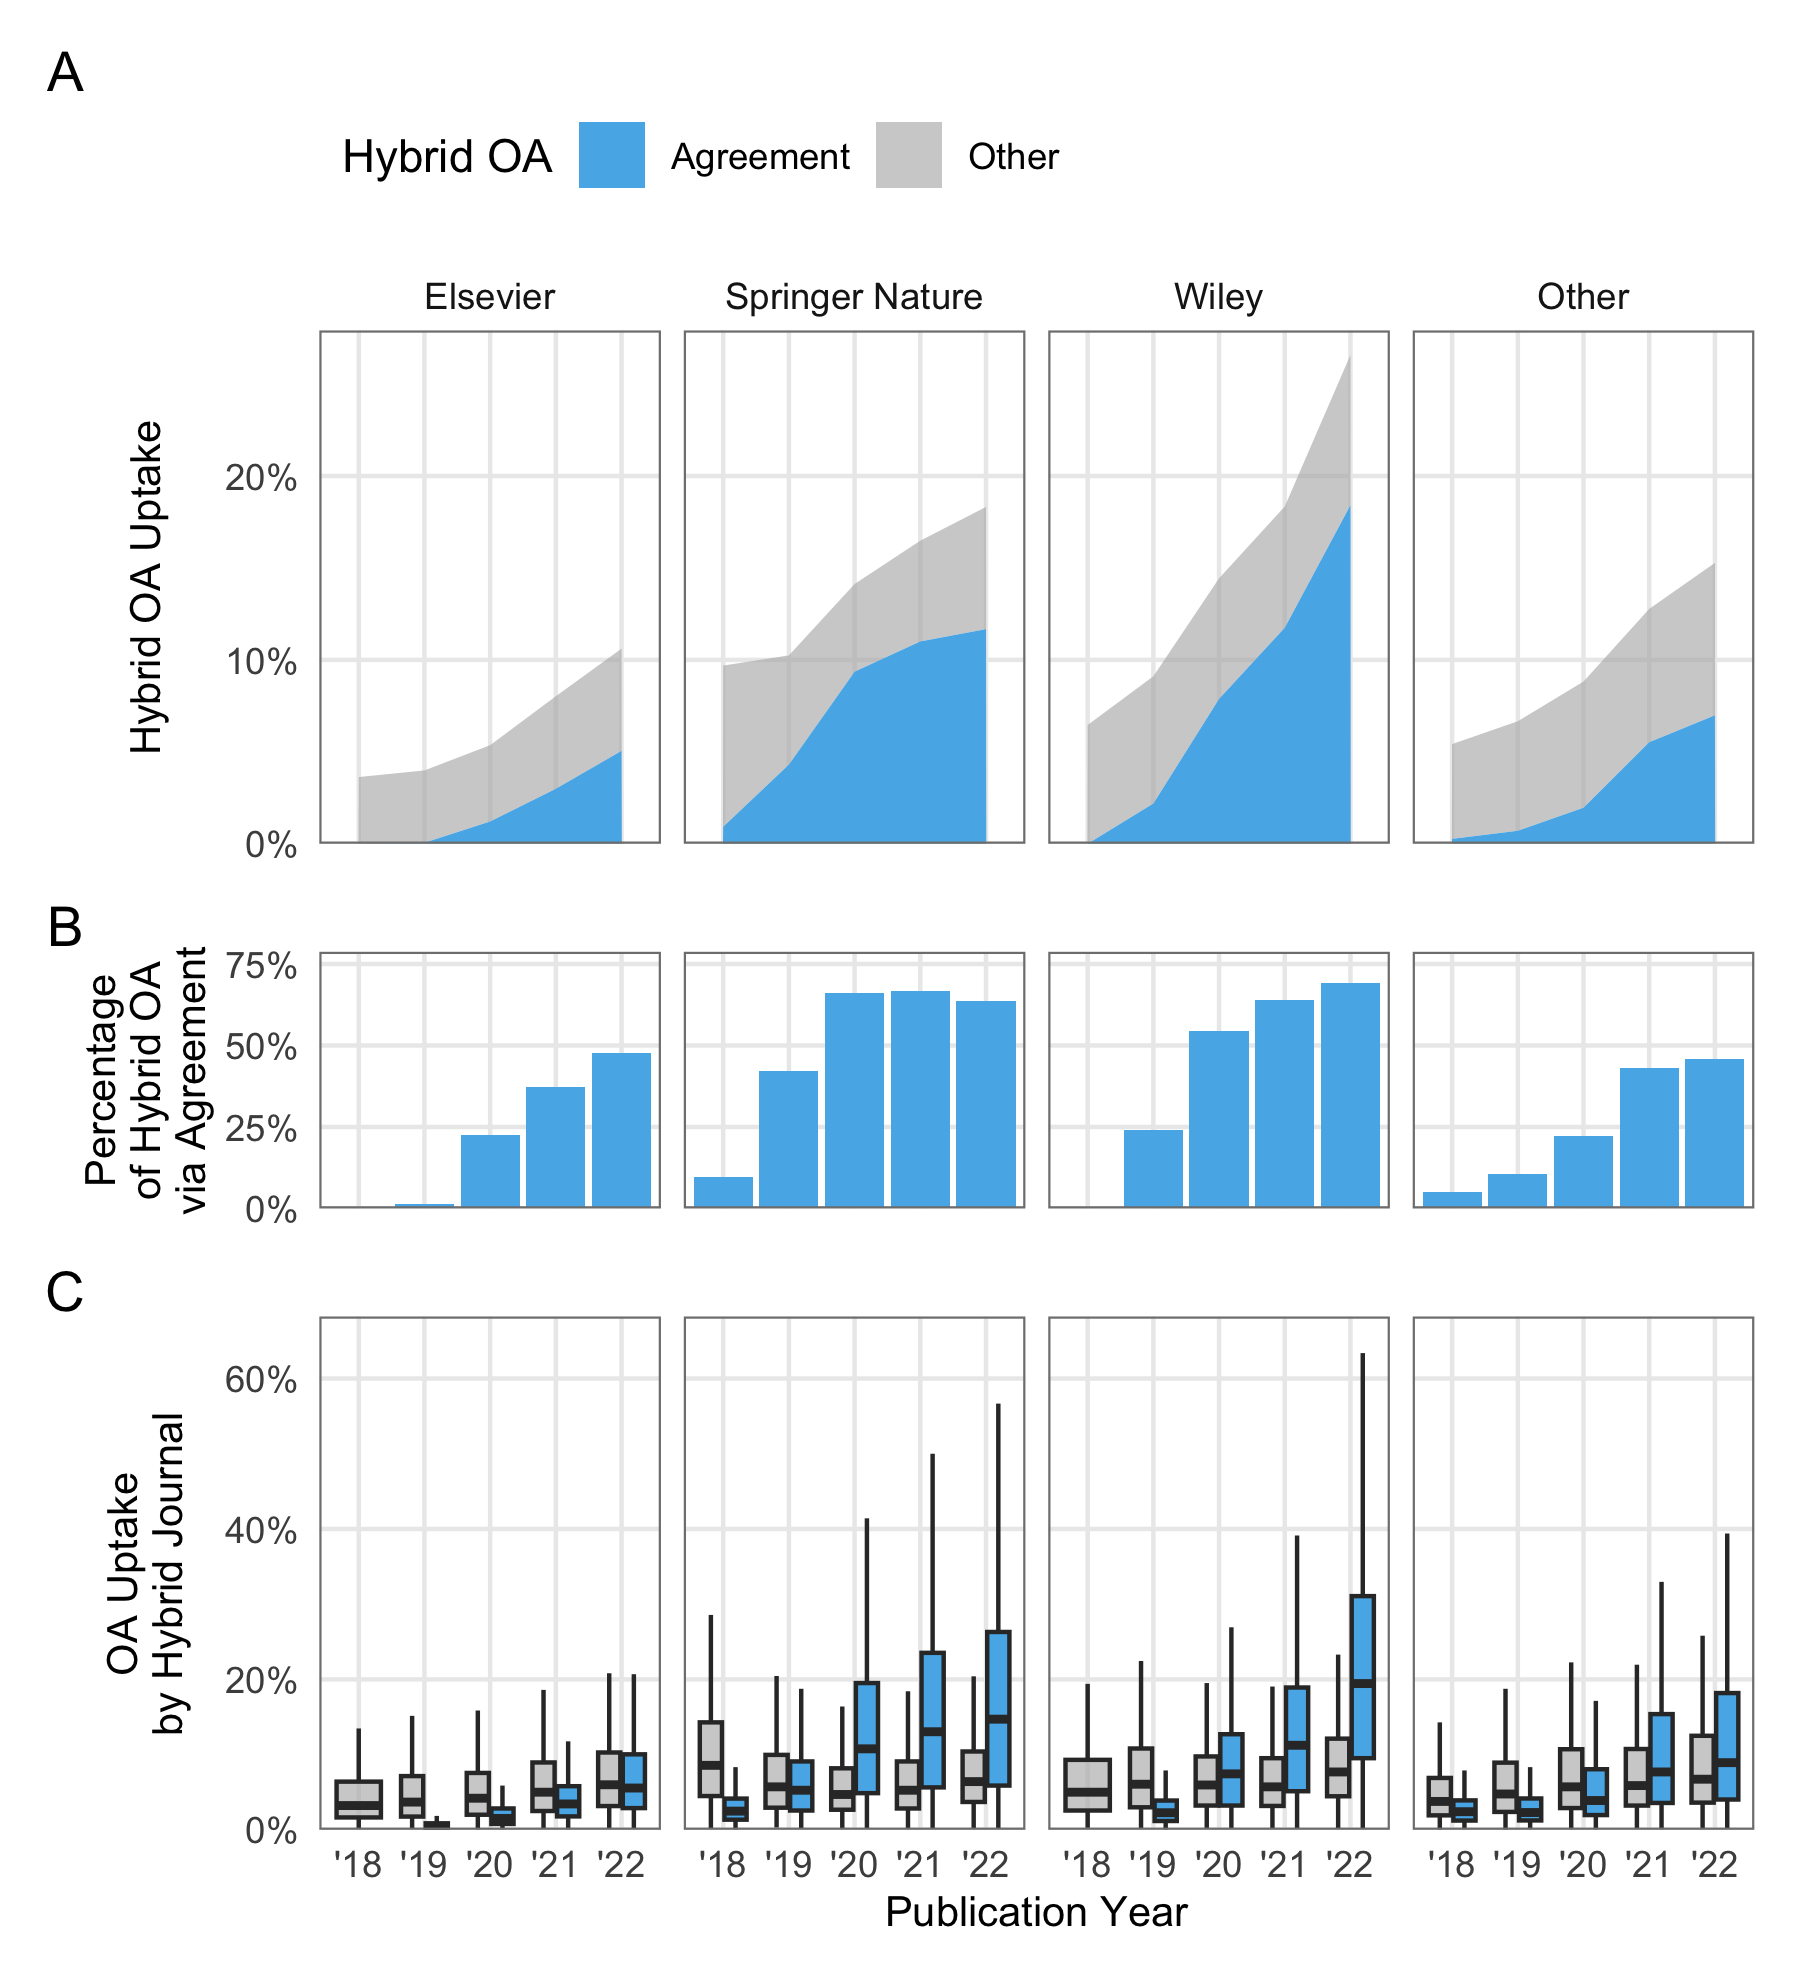
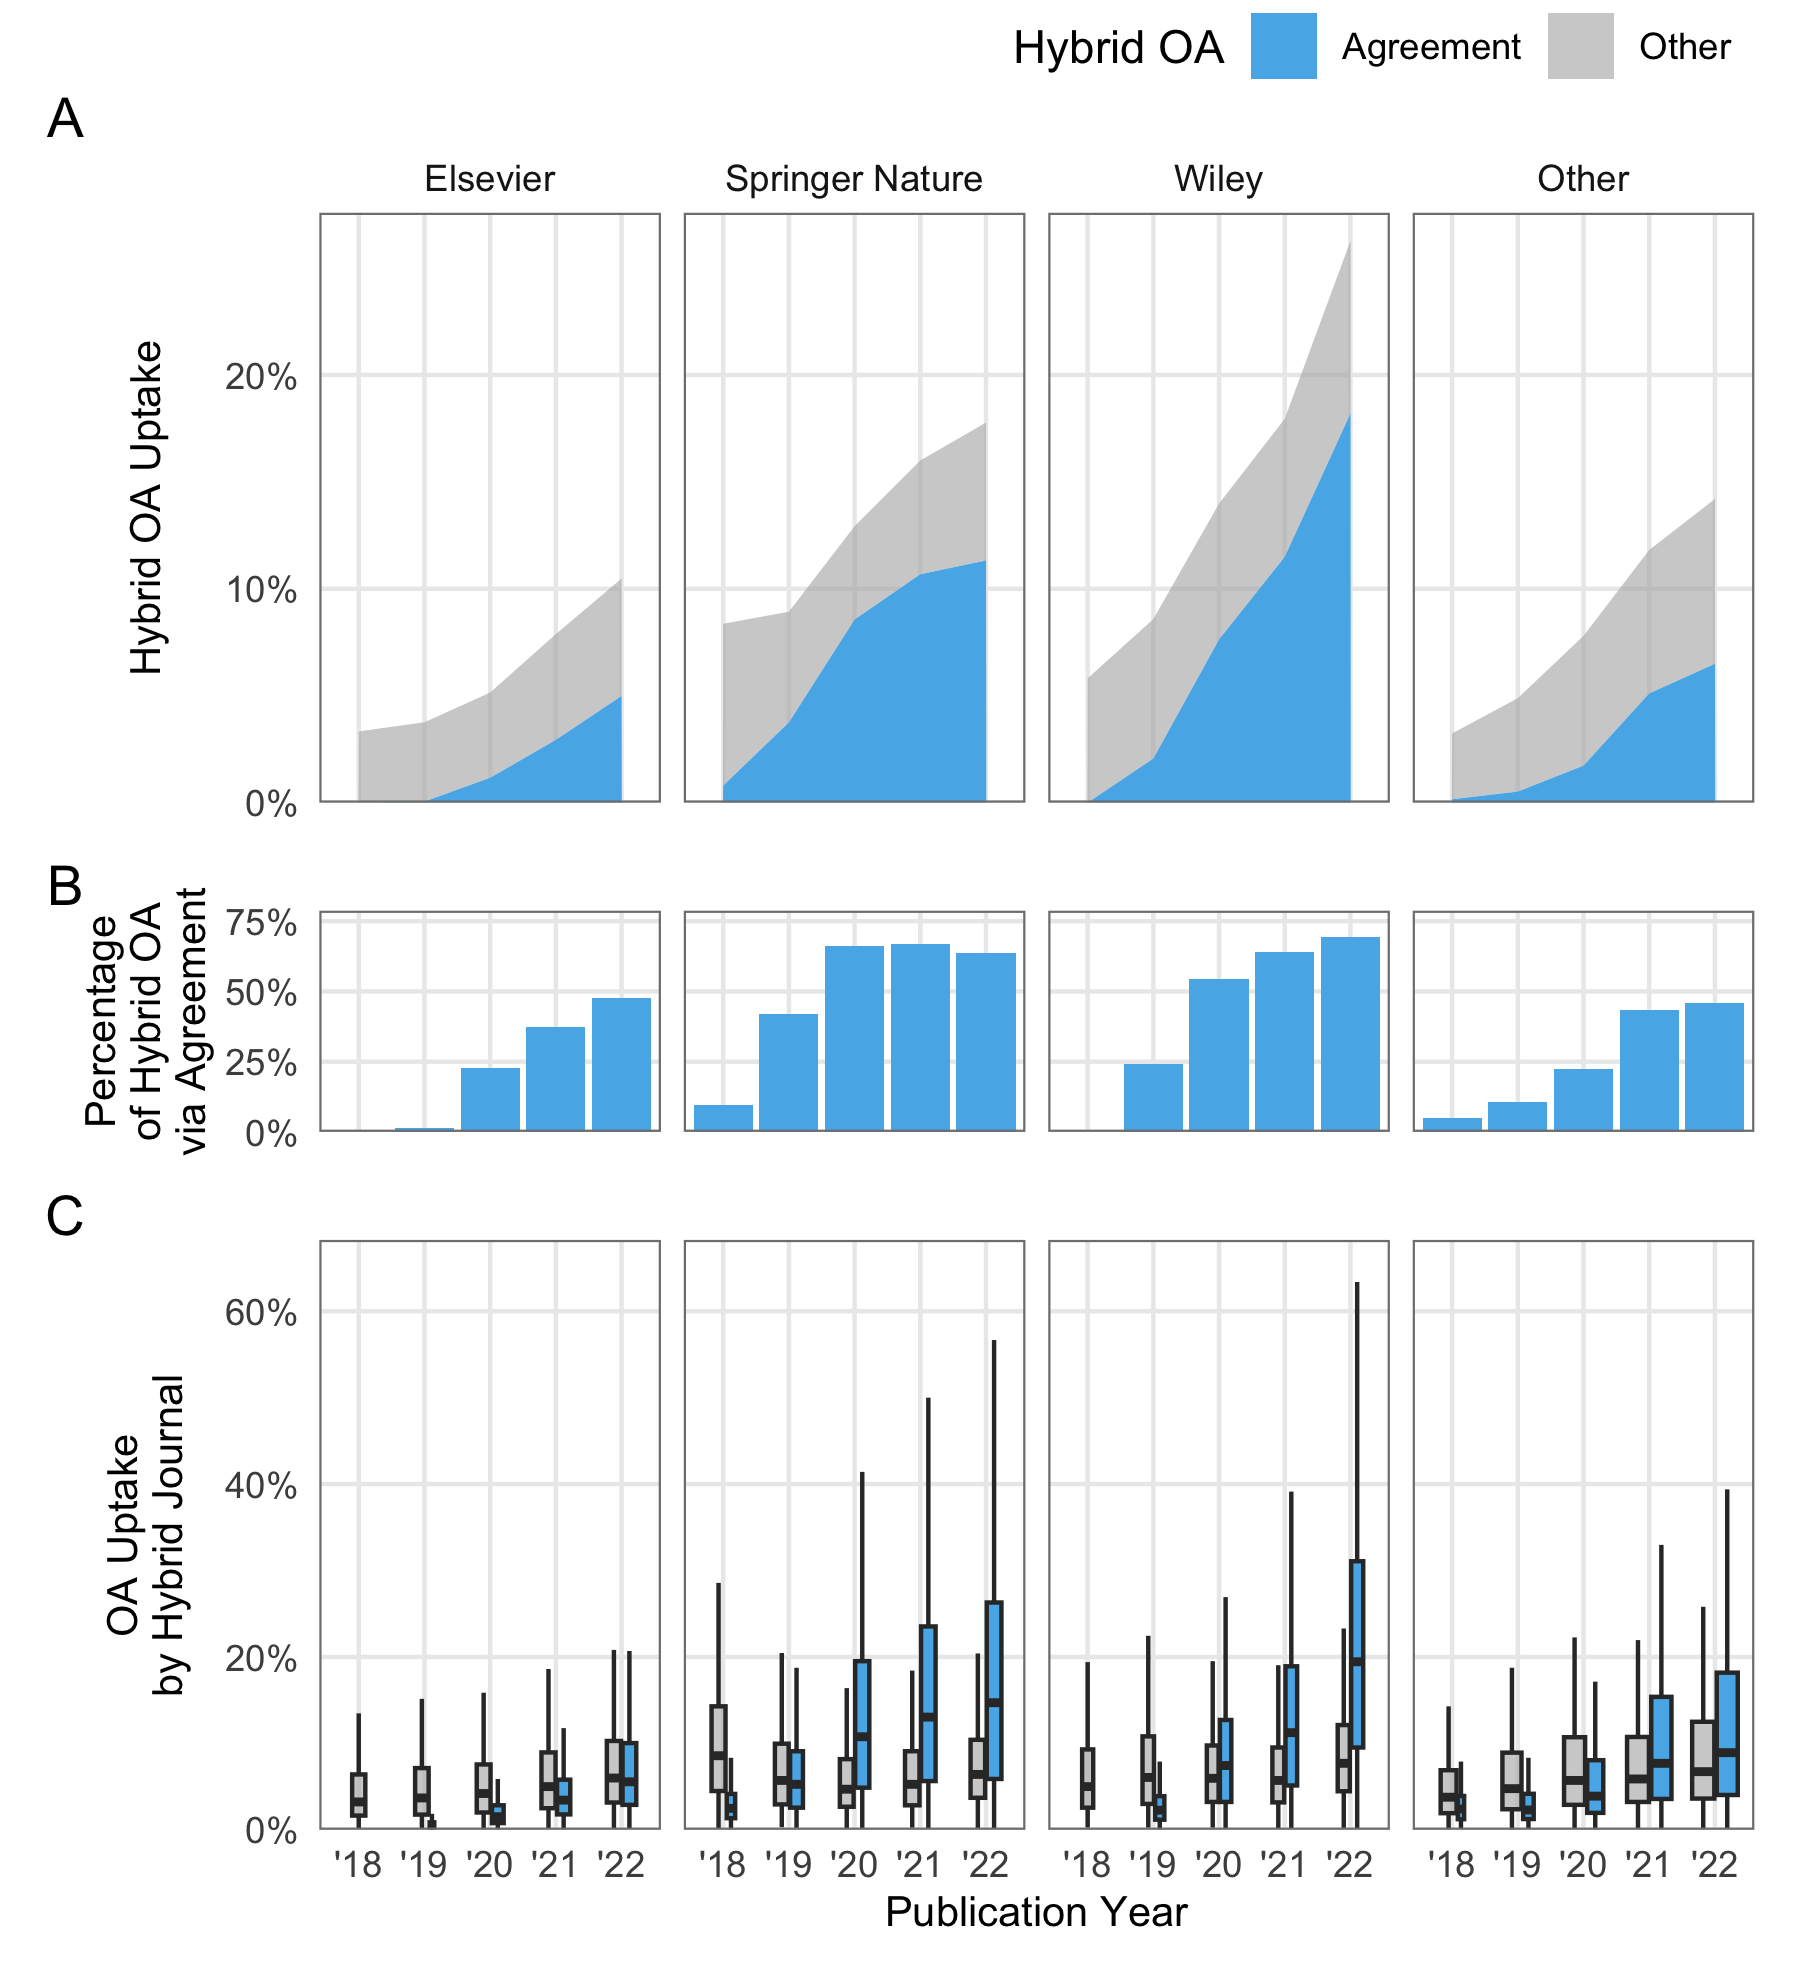
Journal investigated: hybrid journals with at least one oa article between 2018 - 2022 (check 0001-4338)

diff --git a/analysis/001_overview.md b/analysis/001_overview.md
@@ -1,6 +1,6 @@
 Overview
 ================
-2023-11-28
+2023-12-02
 
 What are the number and proportion of open access articles in hybrid
 journals published under a transformative agreement?
@@ -8,8 +8,8 @@ journals published under a transformative agreement?
 Between 2018 and 2022, a total of 11,171 out of 12,681 hybrid journals
 in transformative agreements published at least one open access article
 under a Creative Commons license. During this period, these hybrid
-journals provided open access to 747,238 out of 7,350,721 articles,
-representing a five-year hybrid open access uptake rate of 10%. First
+journals provided open access to 747,238 out of 8,174,722 articles,
+representing a five-year hybrid open access uptake of 9.1%. First
 authors affiliated with institutions that had a transformative agreement
 in place at the time of publication, which indicates that they could
 make use of such agreements, contributed 320,682 open access articles to
@@ -41,17 +41,17 @@ ending before June 2021 were not available at the time of this study.
 </div>
 
 Figure 2A shows a moderate growth in the proportion of open access
-articles in hybrid journals, comparing the overall uptake rate and the
-impact of transformative agreements on this trend. Over the five-years
-period from 2018 to 2022, the overall open access uptake rate increased
-from 4.3% (n = 66,154) to 15% (n = 250,804). At the same time, the total
-publication volume of the investigated journals grew from 1,533,372 in
-2018 to 1,680,807 in 2022.
+articles in hybrid journals, comparing the overall open access uptake
+and the impact of transformative agreements on this trend. Over the
+five-years period from 2018 to 2022, open access increased from 4.3% (n
+= 66,154) to 15% (n = 250,804). At the same time, the total article
+volume of the investigated journals grew from 1,533,372 in 2018 to
+1,680,807 in 2022.
 
 Figure 2B highlights that the majority of open access articles in hybrid
 journals were made available through transformative agreements in 2021
-and 2022, contributing 55% of the total open access volume in 2022.
-However, there was also a notable growth in open access provision
+and 2022, contributing 55% of the total open access article volume in
+2022. However, there was also a notable growth in open access provision
 through individual publication fees, which increased from 4.1% (n =
 63,334) in 2018 to 6.7% (n = 111,858). This suggests that publishers
 were able to gain equally from individual and institutional open access
@@ -94,5 +94,223 @@ remained common. In total, 9,223 journals published open access articles
 from authors affiliated with institutions without transformative
 agreements in place, while 8,715 journals published at least one open
 access article through a transformative agreement in the same year.
+
+Analysing hybrid open access across publishers between 2018 and 2022
+reveals a large concentration on a few publishers in terms of
+publication volume. While transformative agreements could be attributed
+to 47 distinct publishers, the three publishers Elsevier, Springer
+Nature and Wiley accounted for xxx percent of articles published.
+Together, they published xxx articles, representing a share of xx
+percent. xxx were published through transformative agreements. The
+remainder consists of
+
+<table class=" lightable-classic" style="font-family: &quot;Arial Narrow&quot;, &quot;Source Sans Pro&quot;, sans-serif; margin-left: auto; margin-right: auto;">
+<thead>
+<tr>
+<th style="padding-bottom:0; padding-left:3px;padding-right:3px;text-align: center; " colspan="1">
+
+<div style="border-bottom: 1px solid #111111; margin-bottom: -1px; ">
+
+Publisher
+
+</div>
+
+</th>
+<th style="padding-bottom:0; padding-left:3px;padding-right:3px;text-align: center; " colspan="3">
+
+<div style="border-bottom: 1px solid #111111; margin-bottom: -1px; ">
+
+Group 1
+
+</div>
+
+</th>
+<th style="padding-bottom:0; padding-left:3px;padding-right:3px;text-align: center; " colspan="3">
+
+<div style="border-bottom: 1px solid #111111; margin-bottom: -1px; ">
+
+Group 2
+
+</div>
+
+</th>
+<th style="padding-bottom:0; padding-left:3px;padding-right:3px;text-align: center; " colspan="3">
+
+<div style="border-bottom: 1px solid #111111; margin-bottom: -1px; ">
+
+Group 3
+
+</div>
+
+</th>
+</tr>
+<tr>
+<th style="text-align:left;">
+publisher
+</th>
+<th style="text-align:right;">
+publisher_total
+</th>
+<th style="text-align:right;">
+perc
+</th>
+<th style="text-align:right;">
+cum
+</th>
+<th style="text-align:right;">
+oa_total
+</th>
+<th style="text-align:right;">
+oa_perc
+</th>
+<th style="text-align:right;">
+oa_cum
+</th>
+<th style="text-align:right;">
+ta_oa_total
+</th>
+<th style="text-align:right;">
+ta_oa_perc
+</th>
+<th style="text-align:right;">
+ta_oa_cum
+</th>
+</tr>
+</thead>
+<tbody>
+<tr>
+<td style="text-align:left;">
+Elsevier
+</td>
+<td style="text-align:right;">
+2788990
+</td>
+<td style="text-align:right;">
+0.34
+</td>
+<td style="text-align:right;">
+0.34
+</td>
+<td style="text-align:right;">
+174479
+</td>
+<td style="text-align:right;">
+0.23
+</td>
+<td style="text-align:right;">
+0.23
+</td>
+<td style="text-align:right;">
+53617
+</td>
+<td style="text-align:right;">
+0.17
+</td>
+<td style="text-align:right;">
+0.17
+</td>
+</tr>
+<tr>
+<td style="text-align:left;">
+Springer Nature
+</td>
+<td style="text-align:right;">
+1325575
+</td>
+<td style="text-align:right;">
+0.16
+</td>
+<td style="text-align:right;">
+0.50
+</td>
+<td style="text-align:right;">
+174074
+</td>
+<td style="text-align:right;">
+0.23
+</td>
+<td style="text-align:right;">
+0.46
+</td>
+<td style="text-align:right;">
+97872
+</td>
+<td style="text-align:right;">
+0.30
+</td>
+<td style="text-align:right;">
+0.47
+</td>
+</tr>
+<tr>
+<td style="text-align:left;">
+Wiley
+</td>
+<td style="text-align:right;">
+1059147
+</td>
+<td style="text-align:right;">
+0.13
+</td>
+<td style="text-align:right;">
+0.63
+</td>
+<td style="text-align:right;">
+154907
+</td>
+<td style="text-align:right;">
+0.20
+</td>
+<td style="text-align:right;">
+0.66
+</td>
+<td style="text-align:right;">
+84538
+</td>
+<td style="text-align:right;">
+0.26
+</td>
+<td style="text-align:right;">
+0.73
+</td>
+</tr>
+<tr>
+<td style="text-align:left;">
+Other
+</td>
+<td style="text-align:right;">
+3036924
+</td>
+<td style="text-align:right;">
+0.37
+</td>
+<td style="text-align:right;">
+1.00
+</td>
+<td style="text-align:right;">
+255437
+</td>
+<td style="text-align:right;">
+0.34
+</td>
+<td style="text-align:right;">
+1.00
+</td>
+<td style="text-align:right;">
+85339
+</td>
+<td style="text-align:right;">
+0.27
+</td>
+<td style="text-align:right;">
+1.00
+</td>
+</tr>
+</tbody>
+</table>
+
+Figure 2 presents the growth of hybrid open access across publishers by
+year, highlighting the proportion of open articles published under
+transformative agreements. As can be seen from Figure 2A and 2C
 
 <img src="001_overview_files/figure-gfm/unnamed-chunk-5-1.png" width="99%" style="display: block; margin: auto;" />
